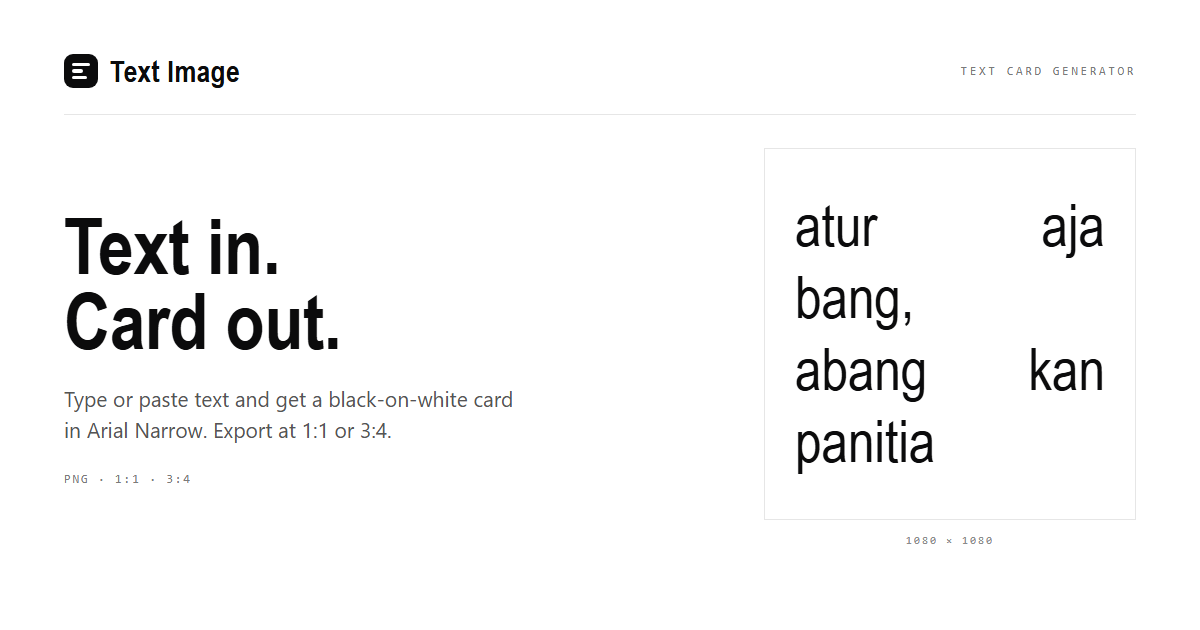
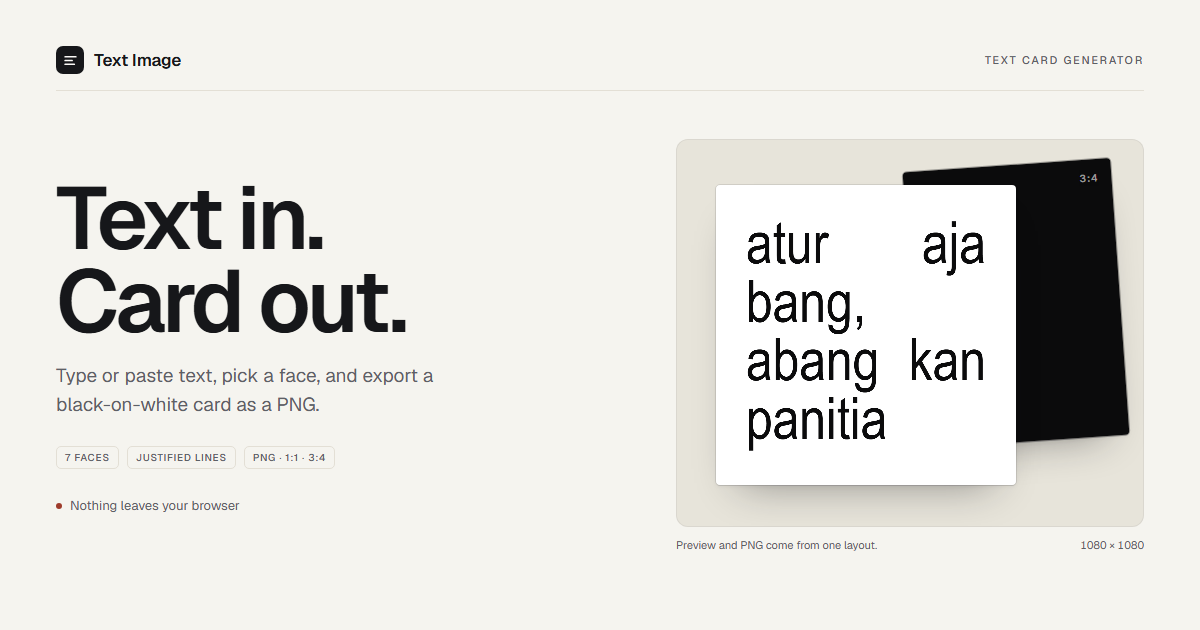
feat: redesign the og image

diff --git a/index.html b/index.html
@@ -30,7 +30,7 @@
     <meta property="og:image:height" content="630" />
     <meta
       property="og:image:alt"
-      content="A square text card reading: atur aja, bang, abang kan panitia."
+      content="A poster reading Text in. Card out. beside a white card with the text atur aja bang, abang kan panitia, and a black 3:4 card behind it."
     />
 
     <meta name="twitter:card" content="summary_large_image" />
@@ -42,7 +42,7 @@
     <meta name="twitter:image" content="/og.png" />
     <meta
       name="twitter:image:alt"
-      content="A square text card reading: atur aja, bang, abang kan panitia."
+      content="A poster reading Text in. Card out. beside a white card with the text atur aja bang, abang kan panitia, and a black 3:4 card behind it."
     />
 
     <script type="application/ld+json">
